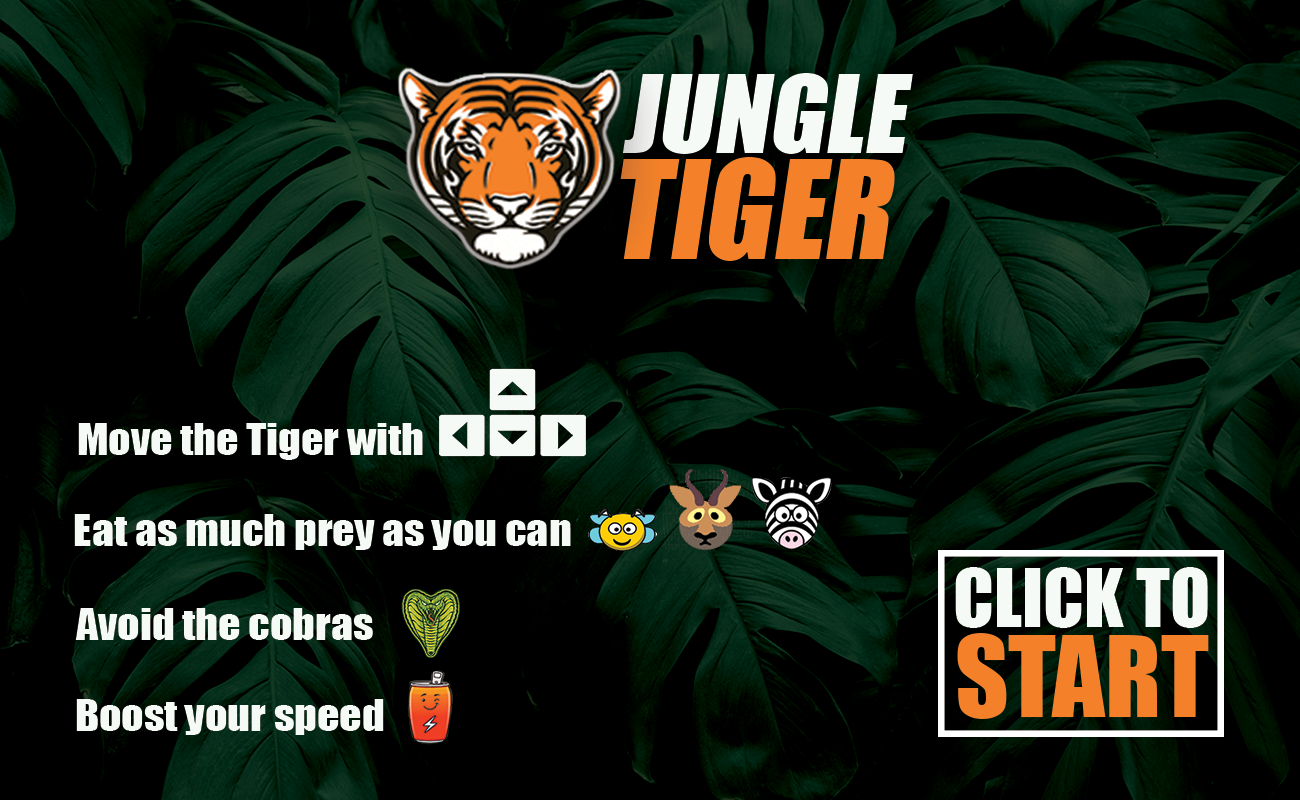
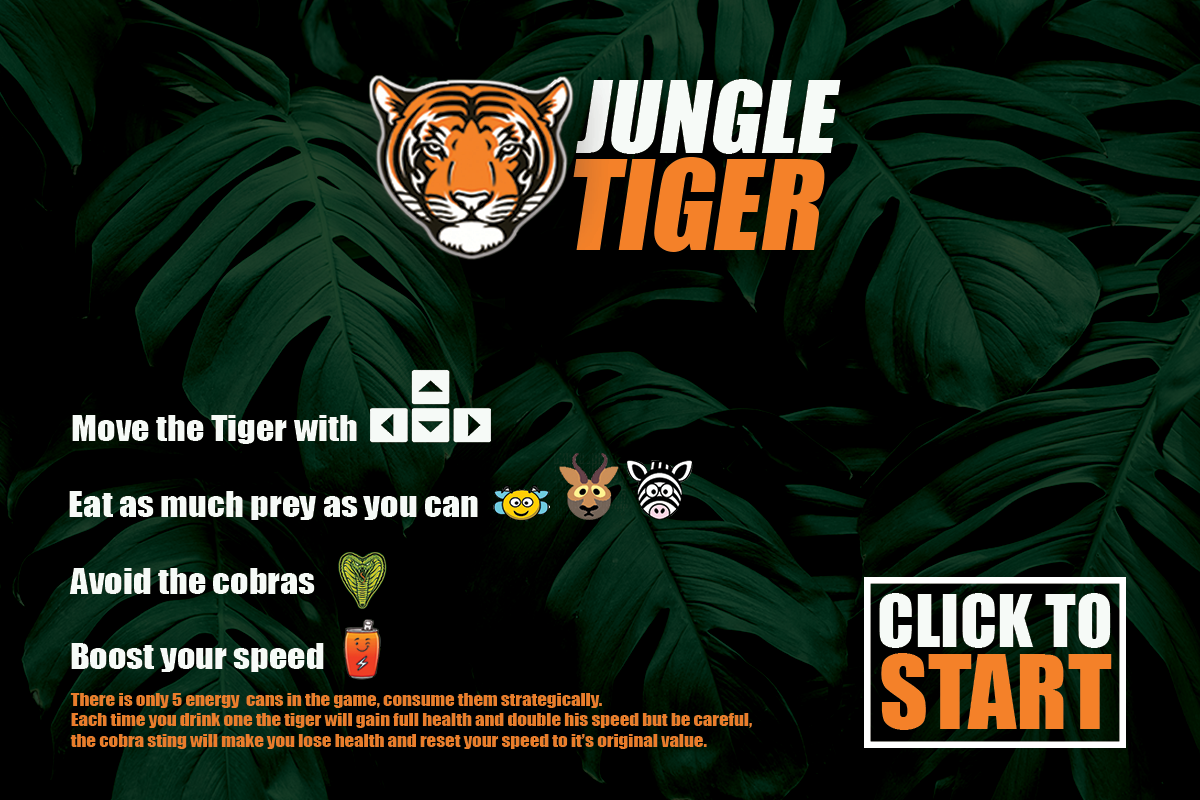
P2: Added the loop for the energydrink in the resetgame function inb main script
- Since the EnergyDrink doesnt reset after consumption, i added the for loop to generate them in the resetGame function so they get reset with the game.

- also added information to the start screen and updated it

diff --git a/projects/Project02/js/script.js b/projects/Project02/js/script.js
@@ -268,6 +268,21 @@ function resetGame() {
   zebra = new Prey(300, 100, 8, 60, zebraImage);
   bee = new Prey(800, 100, 20, 40, beeImage);
   cobraOne = new Cobra(800, 100, 30, 50, cobraImg);
+
+  // since the energy drink doest resetRafter consumption
+  //we have to rerun the loop in the rest game function
+  for (let i = 0; i < numEnergy; i++) {
+    // Generate (mostly) random values for the arguments of the Energy constructor
+    let x = random(0, width);
+    let y = random(0, height);
+    let speed = 10;
+    let radius = 40;
+    // Create a new Energy object with the random values
+    let newEnergy = new Energy(x, y, speed, radius, energyImg);
+    // Add the new energy drink object to the END of our array using push()
+    energy.push(newEnergy);
+  }
+
   tiger.health = tiger.maxHealth;
   tiger.preyEaten = 0;
 
